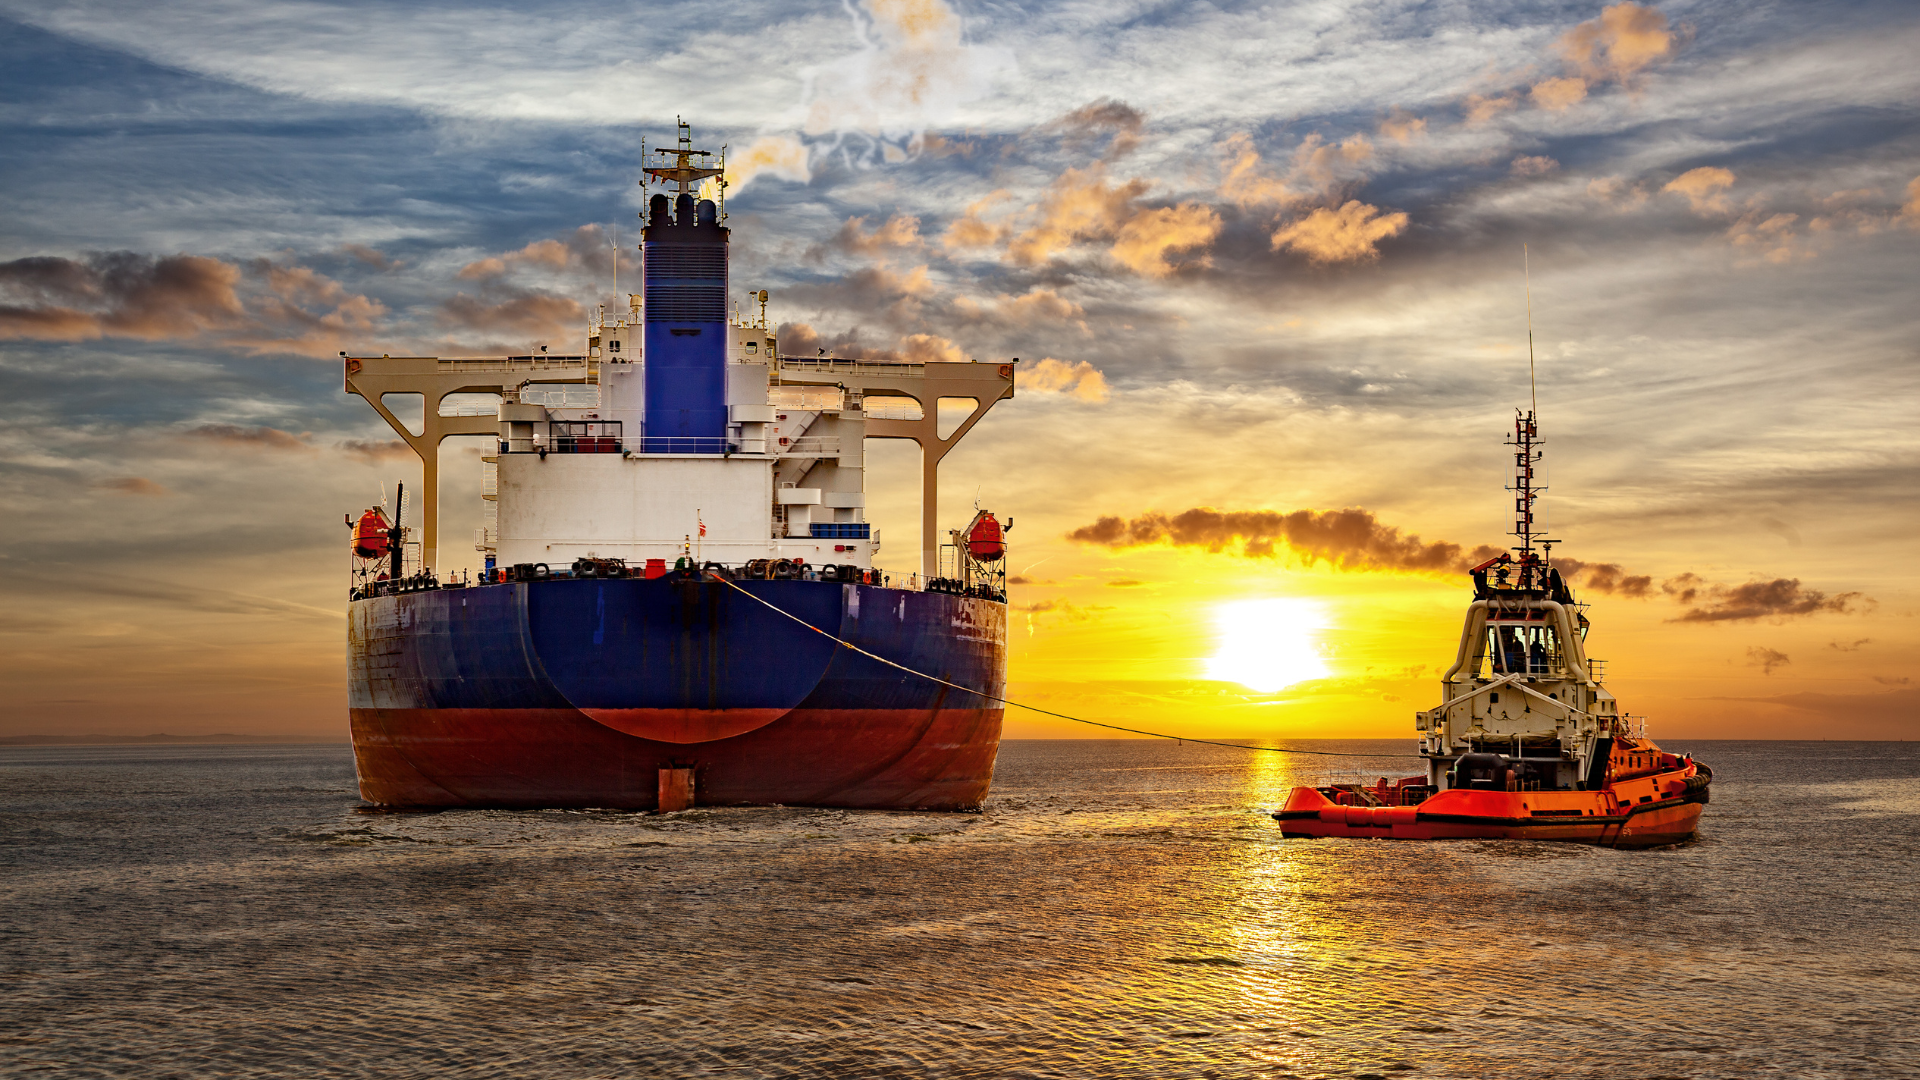
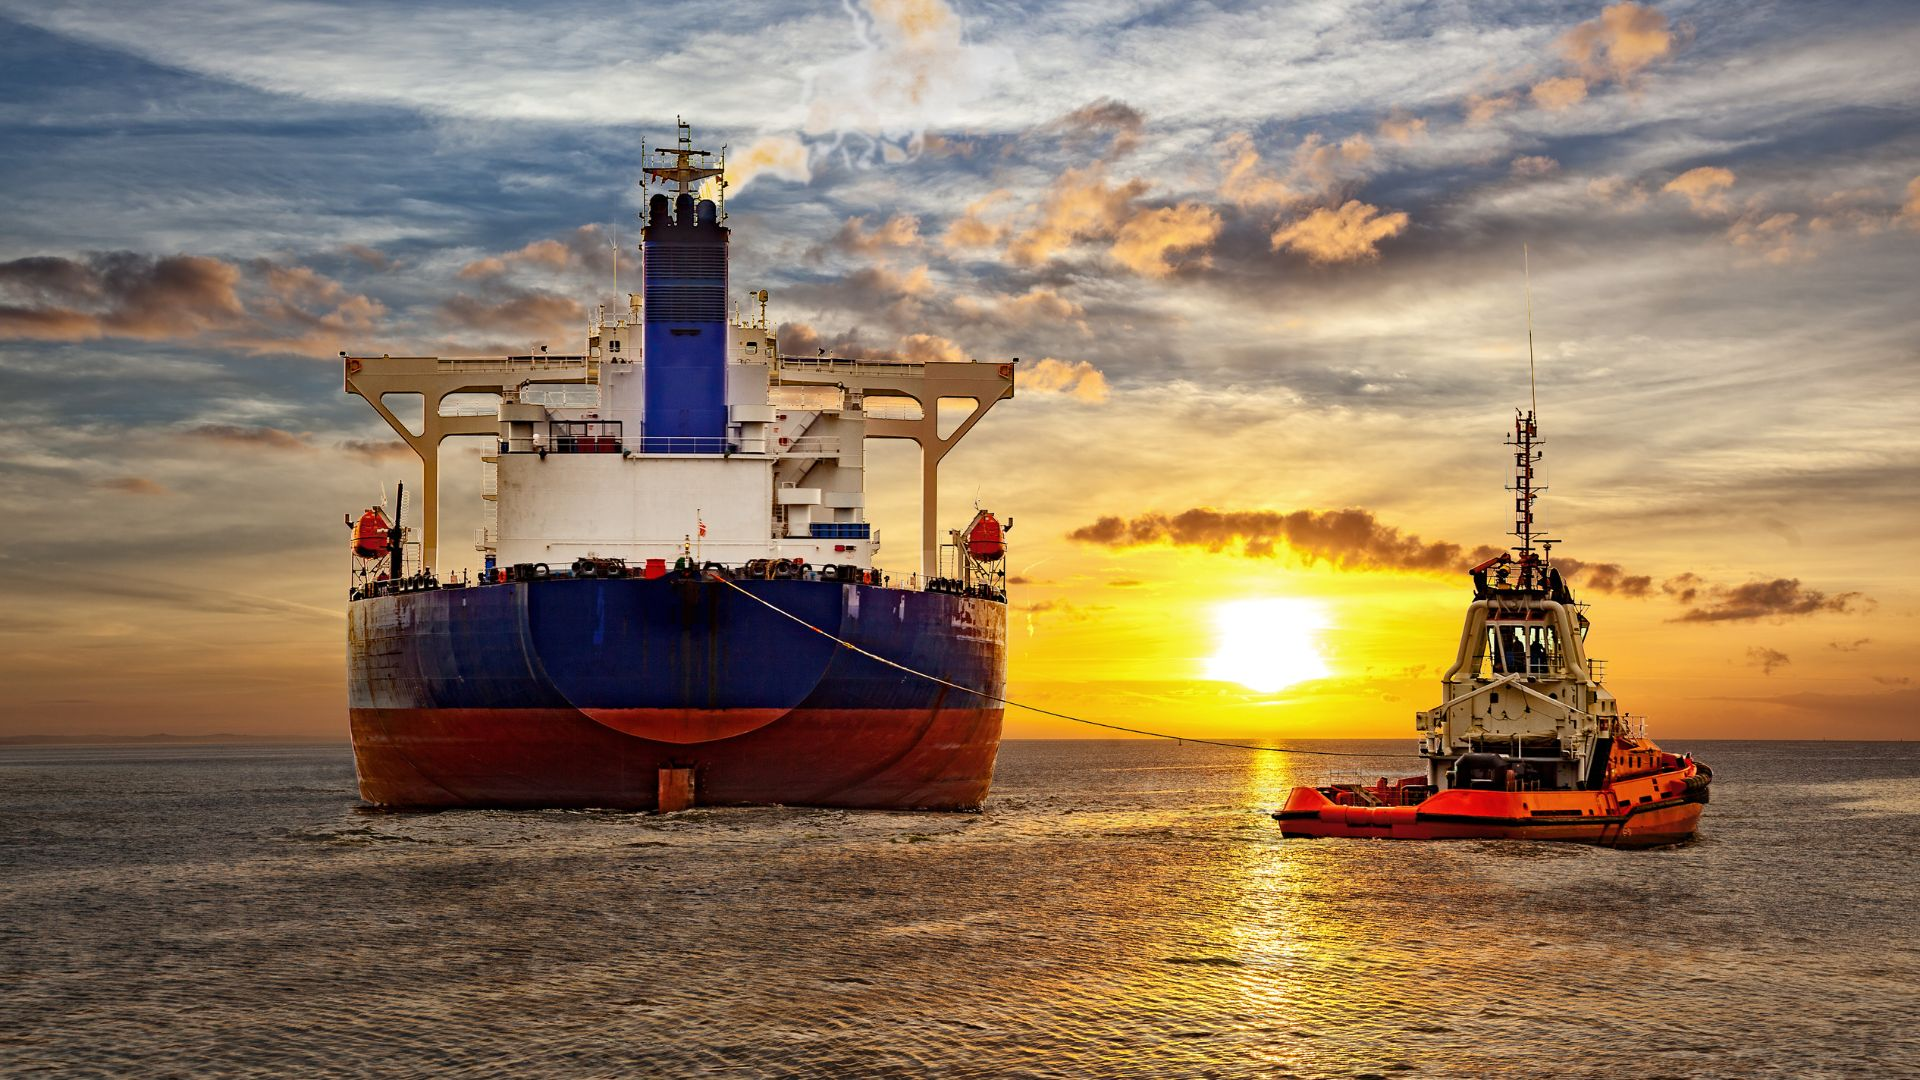
feat: add image optimization script, import new assets, and configure Next.js for standalone output

diff --git a/optimize-images.js b/optimize-images.js
@@ -1,0 +1,40 @@
+const fs = require('fs');
+const path = require('path');
+const sharp = require('sharp');
+
+const assetsDir = path.join(__dirname, 'assets');
+
+async function optimizeImages() {
+  const files = fs.readdirSync(assetsDir);
+  
+  for (const file of files) {
+    if (file.match(/\.(jpg|jpeg|png)$/i)) {
+      const filePath = path.join(assetsDir, file);
+      const tempPath = path.join(assetsDir, `temp_${file}`);
+      const stats = fs.statSync(filePath);
+      
+      // If image is larger than 1MB
+      if (stats.size > 1024 * 1024) {
+        console.log(`Optimizing ${file} (${(stats.size / 1024 / 1024).toFixed(2)} MB)...`);
+        
+        try {
+          await sharp(filePath)
+            .resize({ width: 1920, withoutEnlargement: true })
+            .jpeg({ quality: 80, progressive: true }) // Convert png to jpeg if it's large and resize
+            .toFile(tempPath);
+            
+          fs.unlinkSync(filePath);
+          fs.renameSync(tempPath, filePath);
+          
+          const newStats = fs.statSync(filePath);
+          console.log(`  -> Done. New size: ${(newStats.size / 1024 / 1024).toFixed(2)} MB`);
+        } catch (err) {
+          console.error(`  -> Failed to optimize ${file}:`, err.message);
+          if (fs.existsSync(tempPath)) fs.unlinkSync(tempPath);
+        }
+      }
+    }
+  }
+}
+
+optimizeImages().then(() => console.log('Image optimization complete.'));

diff --git a/next.config.ts b/next.config.ts
@@ -1,7 +1,7 @@
 import type { NextConfig } from "next";
 
 const nextConfig: NextConfig = {
-  /* config options here */
+  output: "standalone",
   reactCompiler: true,
 };
 
